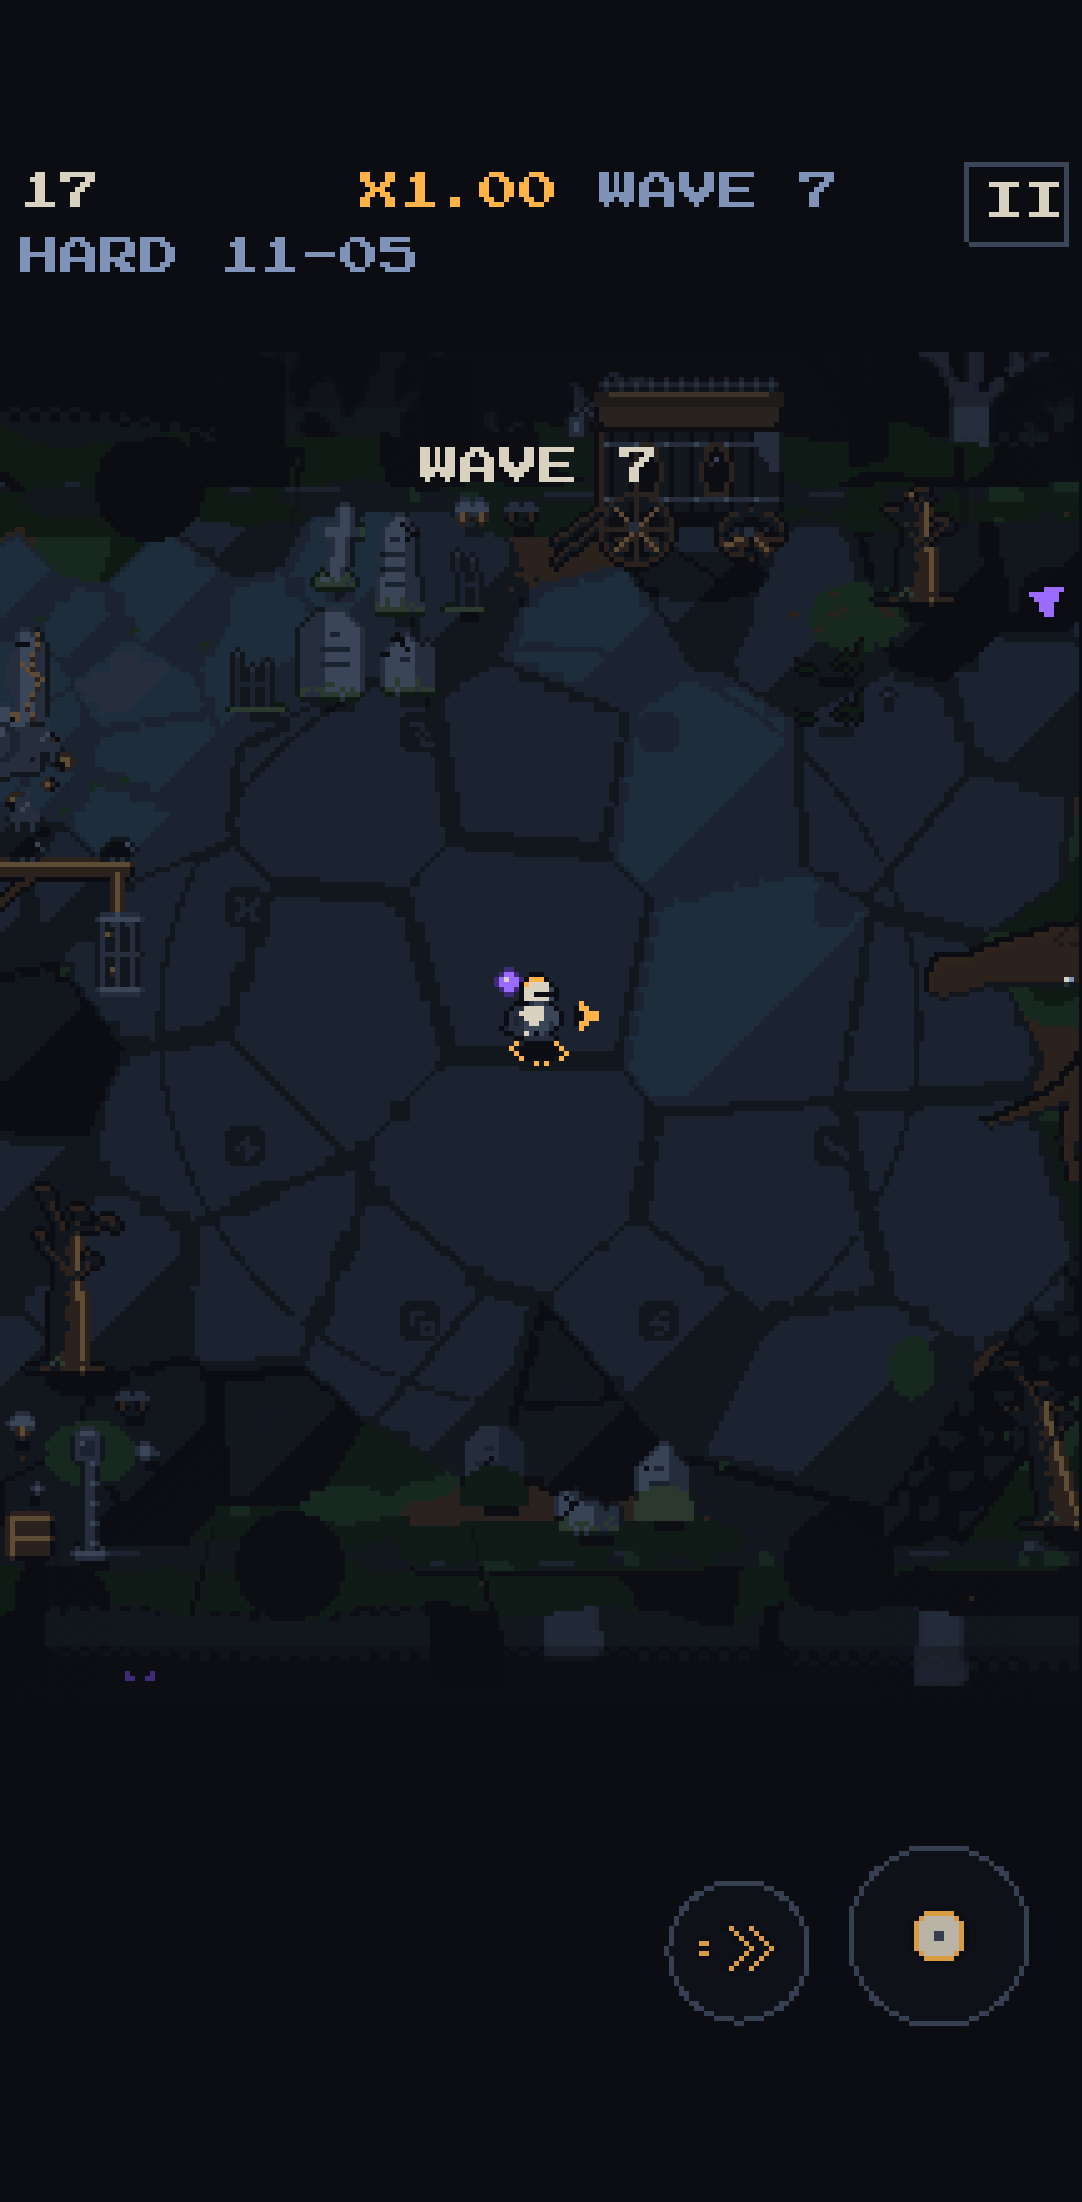
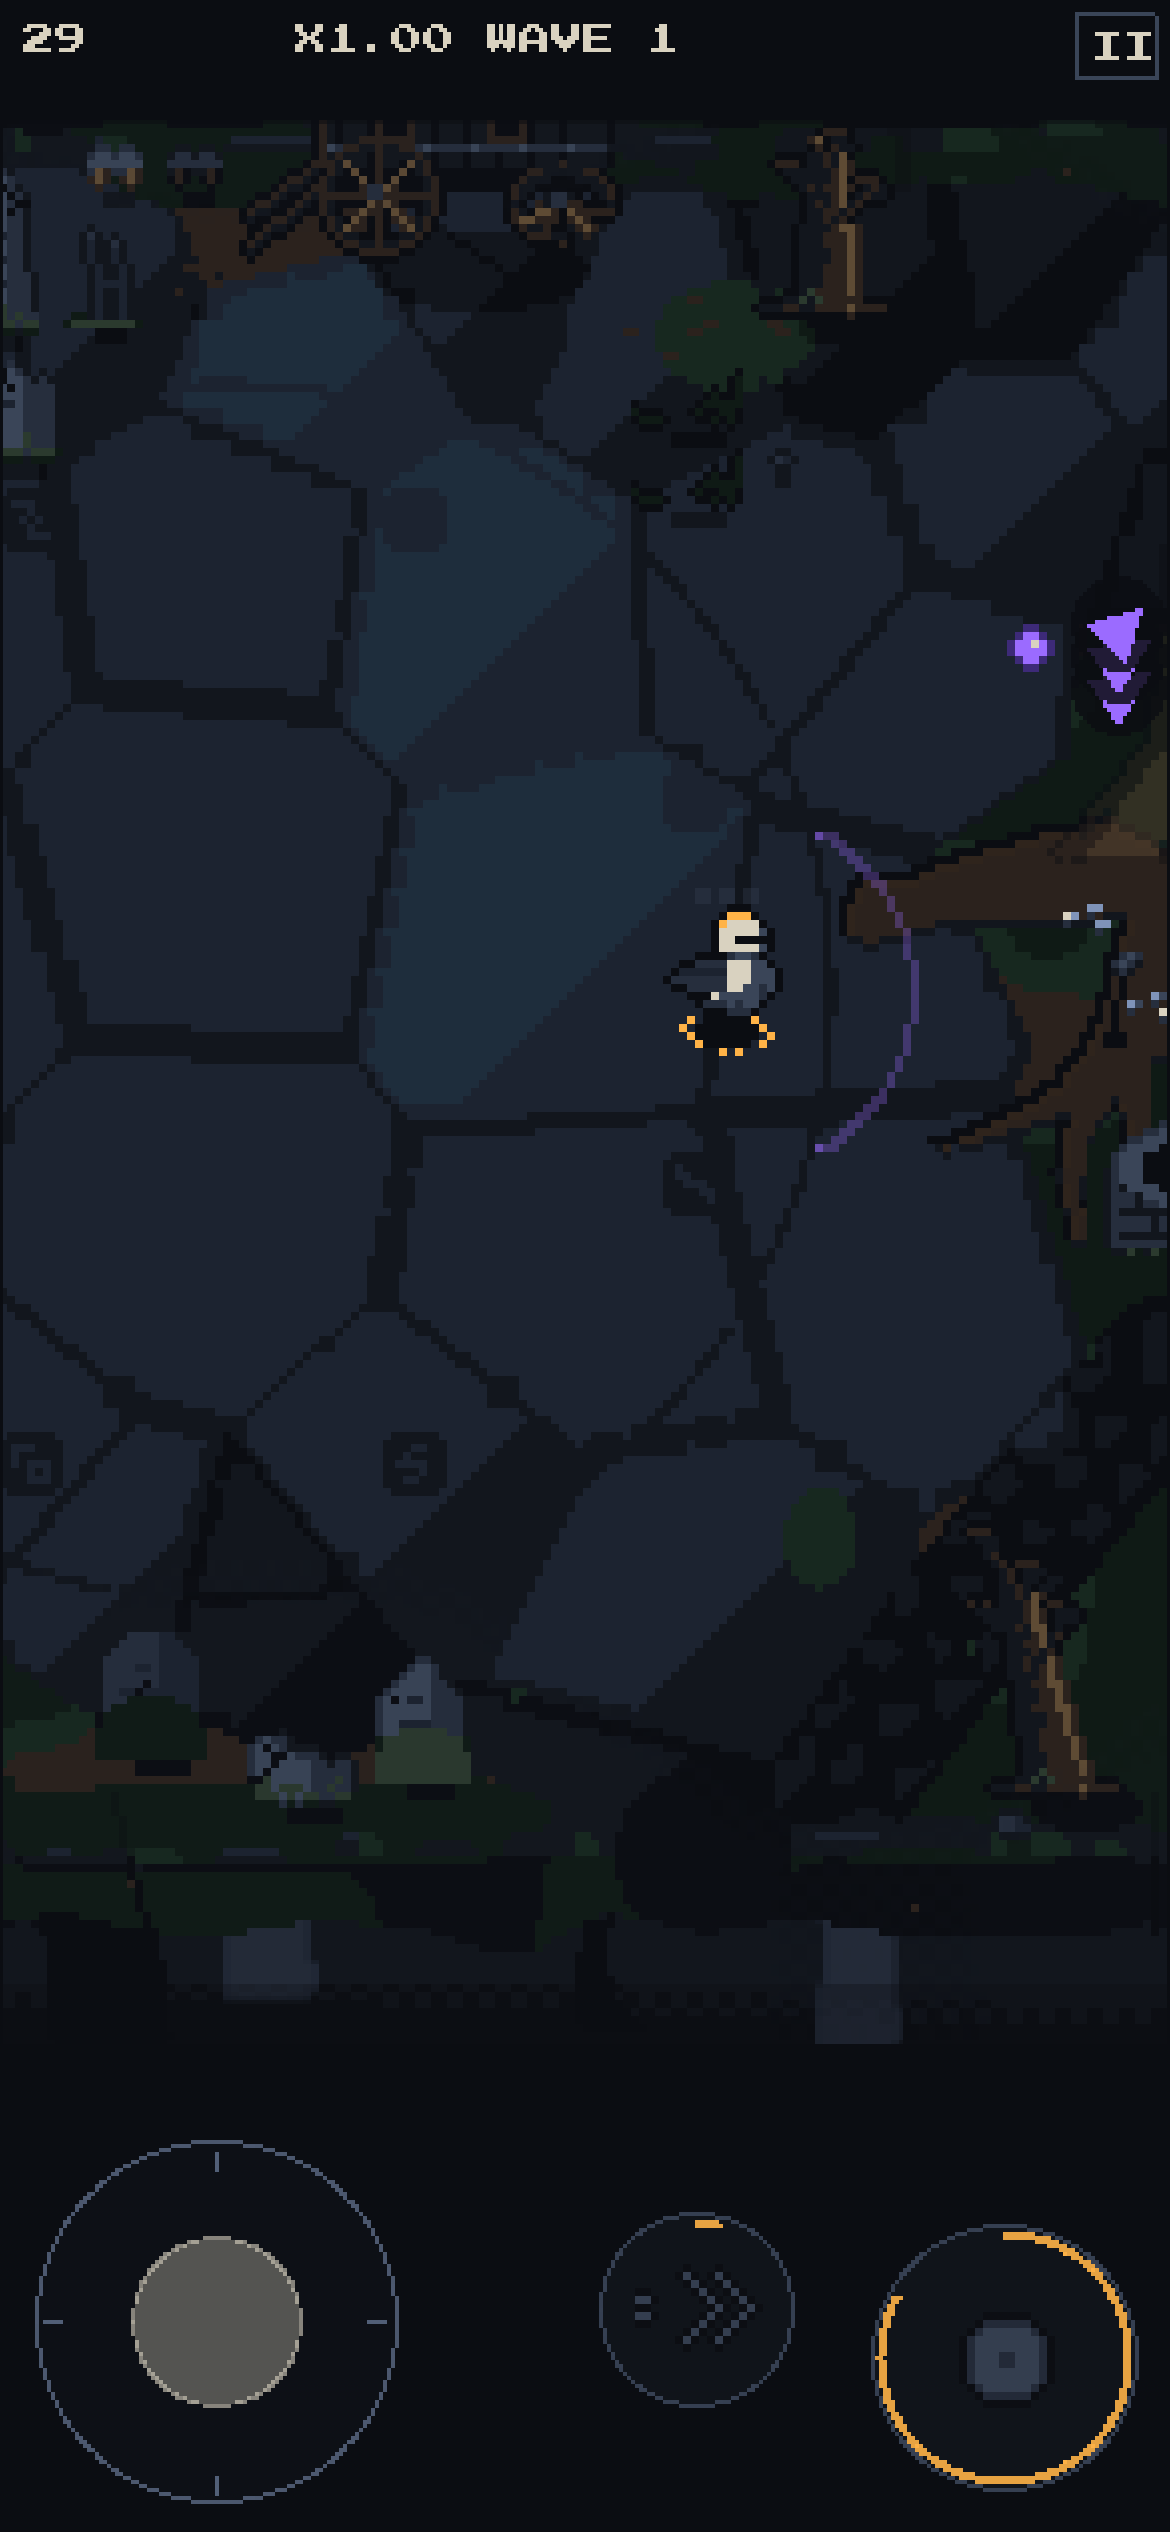
test: phone stick e2e, docs
- tests-e2e/phone_stick.cjs (npm run e2e:phone-stick, production smoke build, DPR 3: Pixel 7, iPhone 14, 360x800,
  375x667, portrait and landscape): the stick moves the hero in 4 directions and 4 diagonals, stick + PARRY + DASH
  together, Left-handed mirrors stick and buttons, rotating mid-run with the stick held pauses and RESUME by tap
  leaves nothing stuck, the game fills >= 95% of the height in portrait, and a Hard run played with the stick is
  submitted (mocked board) and verifies with npm run verify:replay. Screenshots for the author (untracked).
- phone_menus also runs 375x667 at DPR 3 and checks the Stick / Drag switch; knight_arc steps 2 ticks for a turn of
  more than 90 degrees (the new aim rule).
- CLAUDE.md: the fixed joystick and Stick / Drag, the three-band phone menu, standalone handling, the aim rule;
  docs/DEPLOY.md: 0.10.0 needs Worker + Pages together after draining the queue, the iOS home-screen cache; README
  controls; docs/screenshots/phone_portrait.png shows the stick.

Claude-Session: https://claude.ai/code/session_01Ng2YPPjcRqgbh5YHv3EBEA

diff --git a/CLAUDE.md b/CLAUDE.md
@@ -46,7 +46,17 @@ The title lives in ONE constant (`TITLE` in `src/config.ts`); it must be trivial
 - Keyboard: WASD/arrows move, J or Z = Parry, K or Shift = Dash.
 - Gamepad: left stick move, A = Parry, B or RT = Dash.
 - Never require the mouse button to move.
-- Touch (phones/tablets): relative drag anywhere moves a virtual cursor from the hero (sensitivity 0.5-3.0,
+- Touch (phones/tablets), mobile UI pass 2: a FIXED on-screen joystick by default ("TOUCH CONTROLS STICK / DRAG" in
+  Settings, saved; old saves = Stick; desktop never uses it; src/render/touch.ts, STICK in src/data/input.ts). Portrait:
+  base 120 CSS px, knob 56 CSS px, bottom-left of the control strip; landscape: the side margin's bottom corner, 100 CSS
+  px when the margin holds it, else 88 (then a little over the arena's corner, translucent); Left-handed mirrors stick
+  and buttons. A touch starting in the base + 20 CSS px grabs it (the finger keeps it off the zone until lifted;
+  release = centre); 12% dead zone, then the output rises from 0; it is the EXISTING axis input (cursor: false,
+  -100..100: replays are plain axis frames, meta.input 'touch'). In Stick mode other touches (not a button) do nothing
+  and the drag-only rows (sensitivity, smoothing, second-finger parry) are hidden. touchcancel / focus loss / a mode
+  switch release it; a re-layout while held re-anchors it relatively. First run: the card draws the stick and the
+  buttons with MOVE / PARRY / DASH labels.
+- Touch, Drag mode (the old default): relative drag anywhere moves a virtual cursor from the hero (sensitivity 0.5-3.0,
   default 1.0; lifting keeps it, the next drag continues); the hero follows it like the mouse. Touch smoothing
   (Off / Low / High, default Low; src/data/input.ts, not TUNING): an exponential low-pass on the recorded cursor plus a
   ~2 px jitter dead zone, applied in the input layer BEFORE the per-tick cursor is recorded (replays stay exact). PARRY = large round button
@@ -54,12 +64,13 @@ The title lives in ONE constant (`TITLE` in `src/config.ts`); it must be trivial
   left margin; buttons never overlap the arena (x 48..432). A tap with a second finger on the arena = PARRY (setting, on
   by default); a single tap of the only finger does nothing. Touch becomes the same per-tick cursor input as the mouse
   (replays identical); the input source is replay metadata only. Pause button at the right end of the top HUD band.
-- Phones (Polish 3 + phone UX pass): landscape plays the full arena. Portrait plays a ZOOMED CAMERA (render-only,
+- Phones (Polish 3 + phone UX pass; mobile UI pass 2): landscape plays the full arena. Portrait plays a ZOOMED CAMERA (render-only,
   `src/render/portraitLayout.ts`, `src/render/camera.ts`) on a game screen with the REAL viewport aspect
   (`src/web/screen.ts`: ~280 game px wide at an integer device-px scale, inside the safe area, >= 95% of the height):
   HUD band on top (two rows), the world window in the middle (camera zoom raised until it shows at most the world
   height, crisp; `PORTRAIT.zoom` in `src/data/view.ts` is the floor), the boss bar and the control strip at the bottom
-  with PARRY >= 88 and DASH >= 64 CSS px (hit areas +12 CSS px, mirrored by Left-handed, never over the playfield);
+  with PARRY >= 88 and DASH >= 64 CSS px (hit areas +12 CSS px, mirrored by Left-handed, never over the playfield) and
+  the stick (the strip is tall enough for its 120 CSS px base);
   smooth follow with a dead zone and a lead (reduced motion or reduced flashes: snappier, no lead); shake follows the
   setting. The pause menu, cards and the death panel stay on the portrait screen. Multi-touch: one finger moves while
   another presses PARRY / DASH. FAIRNESS EDGE MARKERS (`src/render/edgeMarkers.ts`) on the window edge:
@@ -71,6 +82,9 @@ The title lives in ONE constant (`TITLE` in `src/config.ts`); it must be trivial
 - Pause: Esc, P, gamepad Start or the pause button; auto-pause on focus loss / hidden tab.
 - Menus by touch (`MenuView`, src/render/ui.ts): every item on every page is tappable; a tap fires on pointer-up over the
   item it went down on, shows a pressed state, and a drag over 10 CSS px cancels it (scrolling never activates).
+  Phones in portrait: three bands from the real visible area: the title in the top ~18%, the rows centred in the middle
+  band (row spacing grows up to 1.6x the 48 CSS px minimum; info rows take 0.6), a pinned footer panel (controls hint +
+  champion block, message <= 2 lines with "...") above the home indicator; a symmetric ~10 CSS px gutter.
   Phones get full-width rows >= 44 CSS px (48 in portrait) with the 16 px font, tappable < > arrows on value rows (tap =
   next value, a horizontal drag steps it), a 44 px BACK and lists that scroll by dragging; portrait menus fill the real
   screen (one column, the arena as a dimmed background). Desktop menus keep their geometry; keyboard, mouse and gamepad
@@ -192,6 +206,12 @@ The title lives in ONE constant (`TITLE` in `src/config.ts`); it must be trivial
   best": champion + message, ranks 2-10 with hero / phone icons, your standing via POST /api/daily/me, countdown to
   00:00 UTC; refresh every 60 s, never during a run); narrow windows put the panel under the canvas
   (`src/web/layout.ts`). A short intro plays once per session.
+- Installed web app (standalone): apple-mobile-web-app-status-bar-style black-translucent (the page covers the screen,
+  env(safe-area-inset-*) keeps canvas, menus and HUD clear of the status bar and the home indicator). The layout is
+  measured again on pageshow, visualViewport resize / scroll, orientationchange, 100 / 500 ms after boot and by a 1 s
+  watch (iOS may settle the viewport without an event). The portrait game size is also EXACT on the browser's 1/64 CSS
+  px grid (exactSize in src/web/screen.ts): an iPhone 14 (DPR 3) otherwise got a canvas of 389.333 CSS px stretched by
+  a non-integer factor (soft pixels). tests-e2e/crisp.cjs checks CSS width x DPR = game width x k on phones.
 - Phones: no side panel. "BOARD" on the title and the death panel opens a full-screen board overlay (back button, drag
   scroll, Esc / B close it, never during a run). The canvas never pans, zooms, selects or shows callouts (CSS), the
   page uses 100dvh and follows visualViewport resizes; the web manifest is fullscreen in any orientation ("Add to Home

diff --git a/docs/DEPLOY.md b/docs/DEPLOY.md
@@ -246,6 +246,15 @@ new Worker / verifier refuse old-format logs. So the steps above are mandatory, 
 drain the queue with the OLD code, merge, deploy the Worker and Pages together (no new D1 migration), enable the
 verifier. Today's board keeps its already verified entries; both heroes share one daily board.
 
+Mobile UI pass 2 (version 0.10.0) is such an update too: the Knight's aim rule changed in the sim (the aim follows the
+movement), so the tuning fingerprint and `CLIENT_VERSION` changed. Same order: pause the verifier, drain the queue with
+the OLD code, merge, deploy the Worker and Pages together, enable the verifier. No D1 migration.
+
+iOS caches an installed web app (Add to Home Screen): after a deploy the app picks up the new build only after it is
+fully closed (swiped away) and opened again; the icon, the name and the manifest (display mode, status bar style) are
+read when the app is added, so a player may need to remove it and add it to the Home Screen again to get the new
+status bar style.
+
 Preview without Cloudflare (nothing is deployed): `npm install`, then `npm run dev` and open
 `http://localhost:5173/?hero=knight` or `?hero=wisp` (dev-only override, never saved, absent from production
 builds). For the board flow locally: `npx wrangler dev --port 8787 --local` in `server/` and `npm run e2e:board`.

diff --git a/README.md b/README.md
@@ -28,10 +28,10 @@ More: [Lich Mage](docs/screenshots/boss_lich.png), [phone in portrait](docs/scre
 | Mouse | the hero follows the cursor | left click | right click | Esc or P |
 | Keyboard | WASD / arrows | J or Z | K, Shift or Space | Esc or P |
 | Gamepad | left stick | A | B or RT | Start |
-| Touch | drag anywhere (a virtual cursor) | PARRY button, or a second-finger tap | DASH button | pause button |
+| Touch | the fixed joystick (Stick, default), or drag anywhere (Drag, in Settings) | PARRY button (Drag: also a second-finger tap) | DASH button | pause button |
 
 On phones, landscape shows the whole arena; portrait plays with a zoomed camera and edge markers for threats outside
-the view. "Left-handed" in Settings mirrors the touch buttons.
+the view. "Left-handed" in Settings mirrors the joystick and the touch buttons.
 
 ## Run it
 
